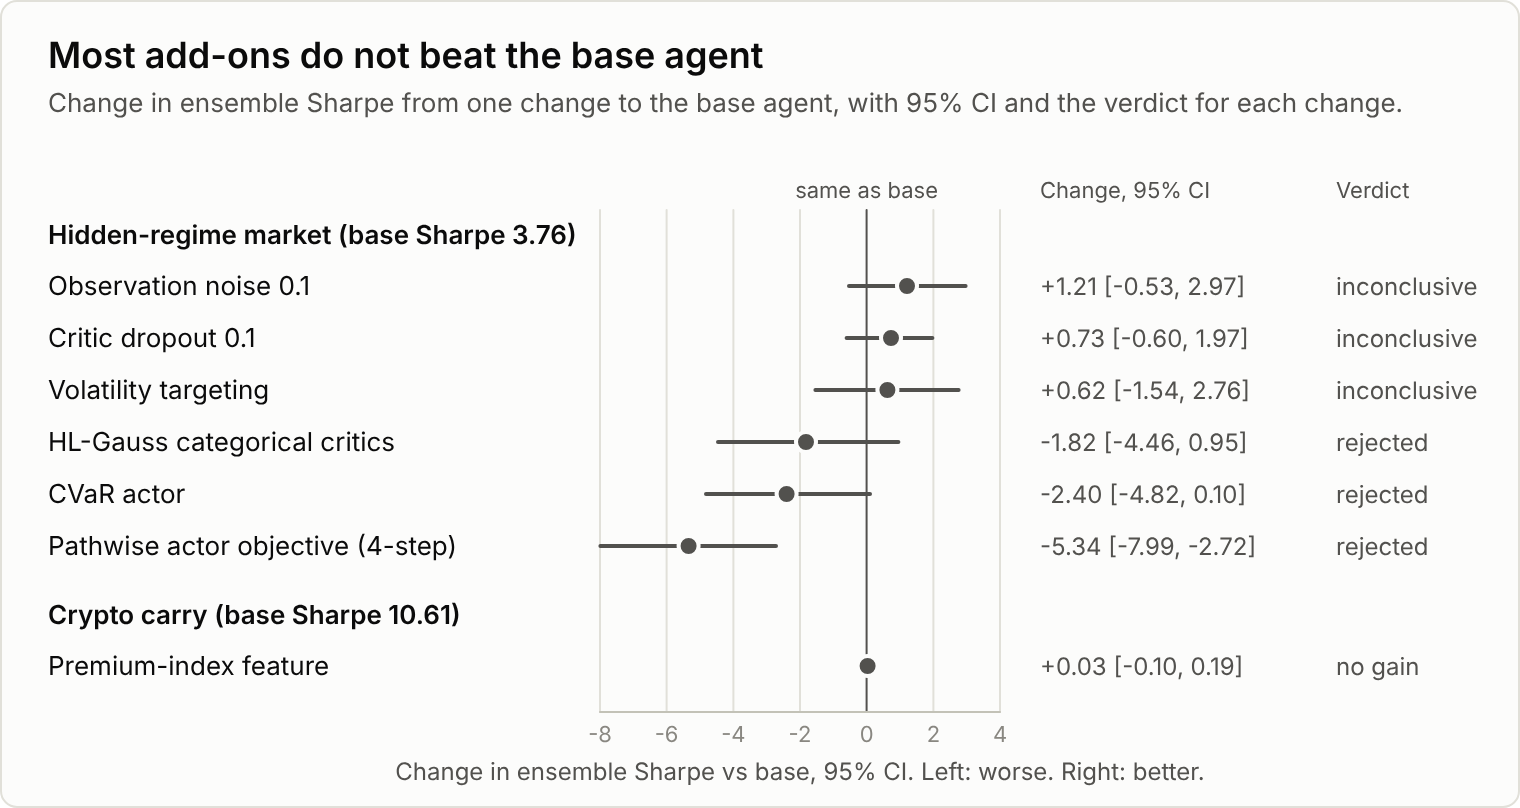
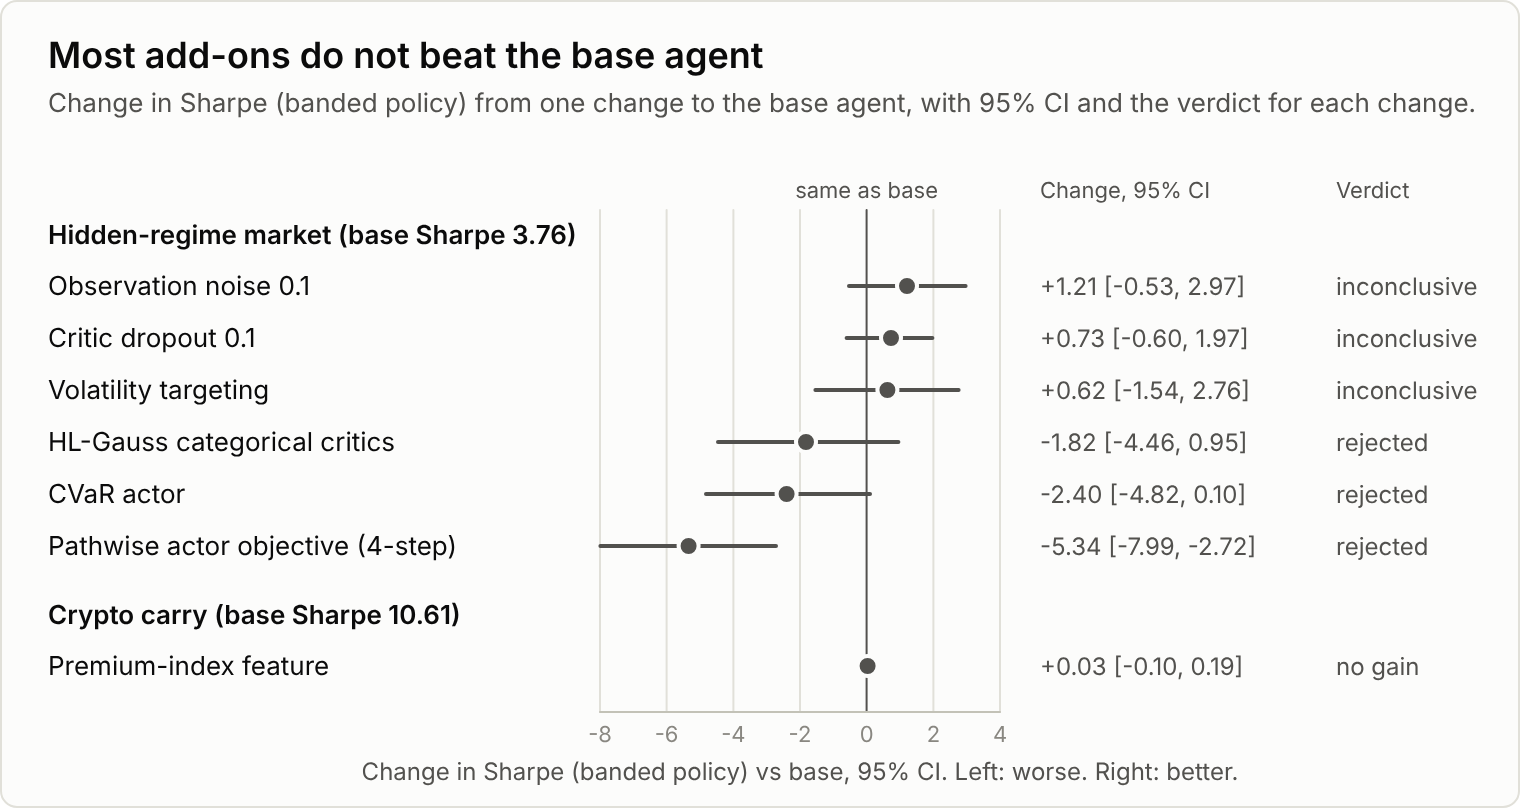
Regenerate result figures after the audit; label ablation Sharpe as banded policy

Changed region(s): [[0.1237, 0.0928, 0.9586, 0.1547], [0.2474, 0.9282, 0.8039, 0.9901]]

diff --git a/scripts/make_figures.py b/scripts/make_figures.py
@@ -248,17 +248,17 @@ def ablations_svg(df: pd.DataFrame) -> str:
         x_hi=4,
         ticks=(-8, -6, -4, -2, 0, 2, 4),
         zero_label="same as base",
-        caption="Change in ensemble Sharpe vs base, 95% CI. Left: worse. Right: better.",
+        caption="Change in Sharpe (banded policy) vs base, 95% CI. Left: worse. Right: better.",
     )
     subtitle = (
-        "Change in ensemble Sharpe from one change to the base agent, with 95% CI "
+        "Change in Sharpe (banded policy) from one change to the base agent, with 95% CI "
         "and the verdict for each change.",
     )
     lay = Layout(width=760, label_x=24, plot_x0=300, plot_x1=500, value_x=520, verdict_x=668)
     return forest_svg(
         "Most add-ons do not beat the base agent",
         subtitle,
-        "Forest plot: change in ensemble Sharpe for each ablation against its base.",
+        "Forest plot: change in Sharpe (banded policy) for each ablation against its base.",
         (panel,),
         lay,
     )
